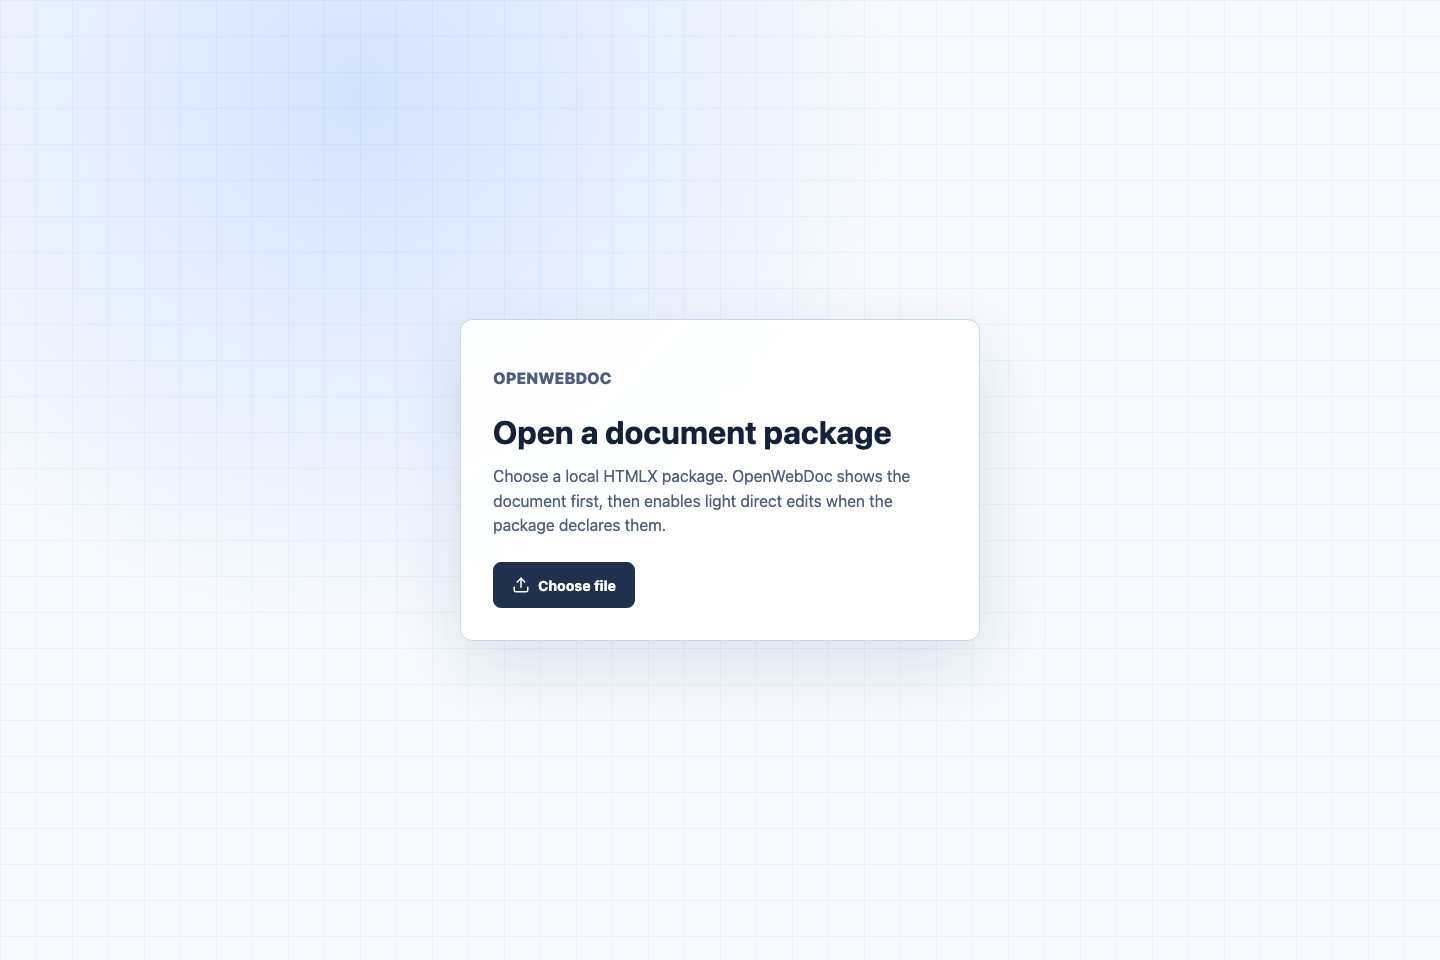
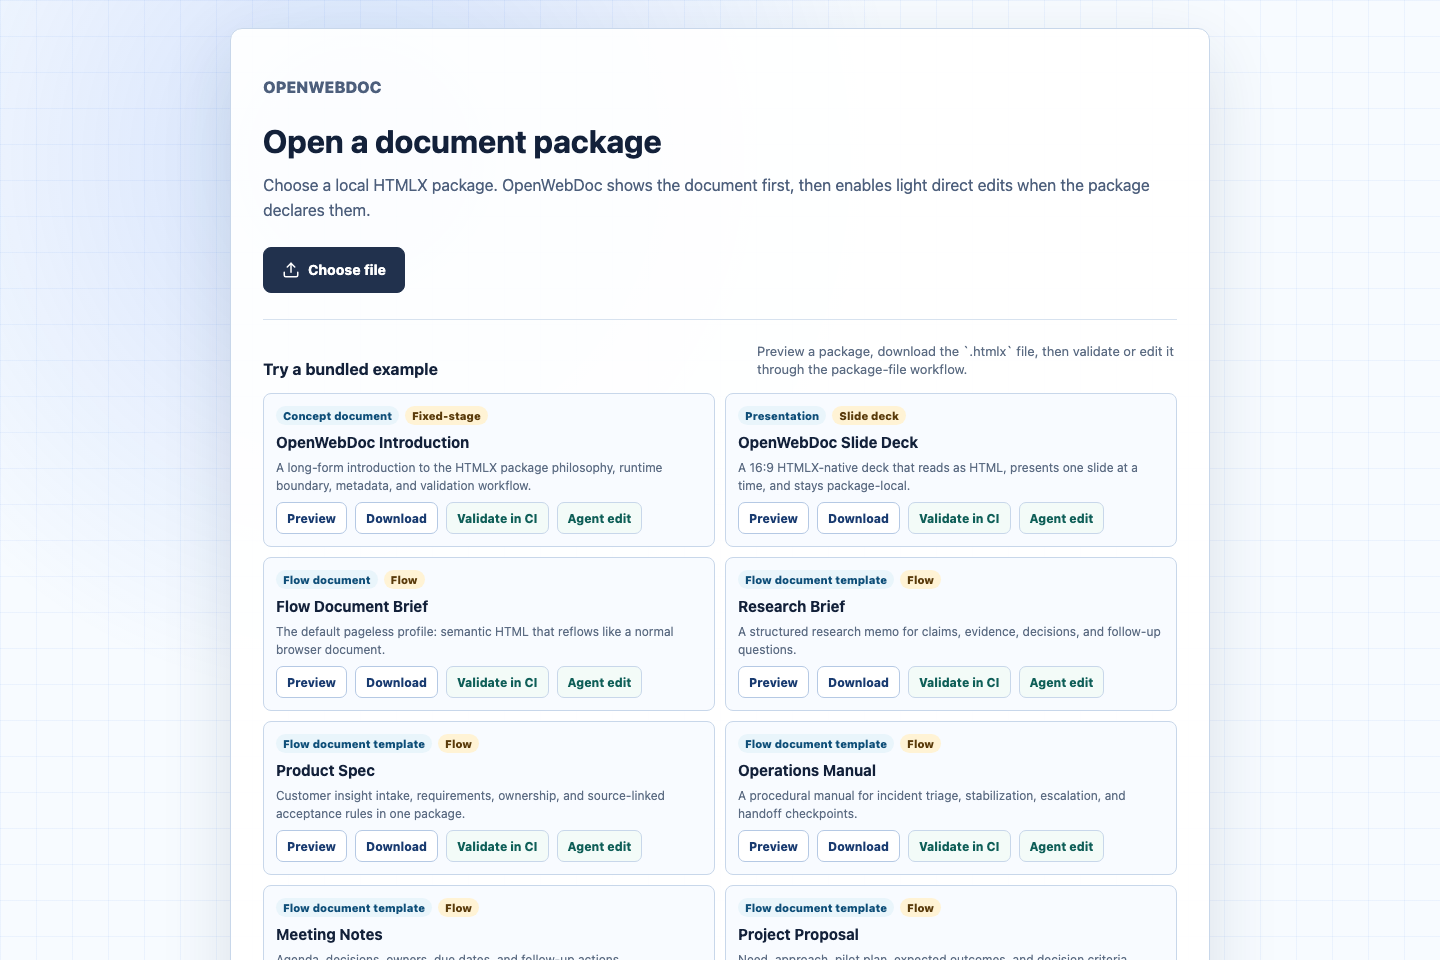
Update README screenshots and usage GIF (#33)

Changed region(s): [[0.1562, 0.0312, 0.8125, 0.7188], [0.5, 0.75, 0.7812, 1.0], [0.1875, 0.75, 0.4688, 1.0]]

diff --git a/README.md b/README.md
@@ -74,9 +74,29 @@ The same package can be opened in the OpenWebDoc app before or after PR review:
 
 ## Screenshots
 
+Usage flow:
+
+![OpenWebDoc app usage flow](docs/assets/screenshots/openwebdoc-usage.gif)
+
+File-open and template gallery screen:
+
 ![OpenWebDoc file-open screen](docs/assets/screenshots/openwebdoc-pages-empty.png)
 
+Reading mode:
+
 ![OpenWebDoc introduction example](docs/assets/screenshots/openwebdoc-pages-introduction.png)
+
+Micro-edit mode:
+
+![OpenWebDoc edit mode overlay](docs/assets/screenshots/openwebdoc-pages-edit-mode.png)
+
+Template gallery example:
+
+![OpenWebDoc status review deck in reading mode](docs/assets/screenshots/openwebdoc-pages-template-status-read.png)
+
+![OpenWebDoc status review deck in presentation mode](docs/assets/screenshots/openwebdoc-pages-template-status-present.png)
+
+Presentation mode:
 
 ![OpenWebDoc slide deck presentation mode](docs/assets/screenshots/openwebdoc-pages-slide-deck-present.png)
 
